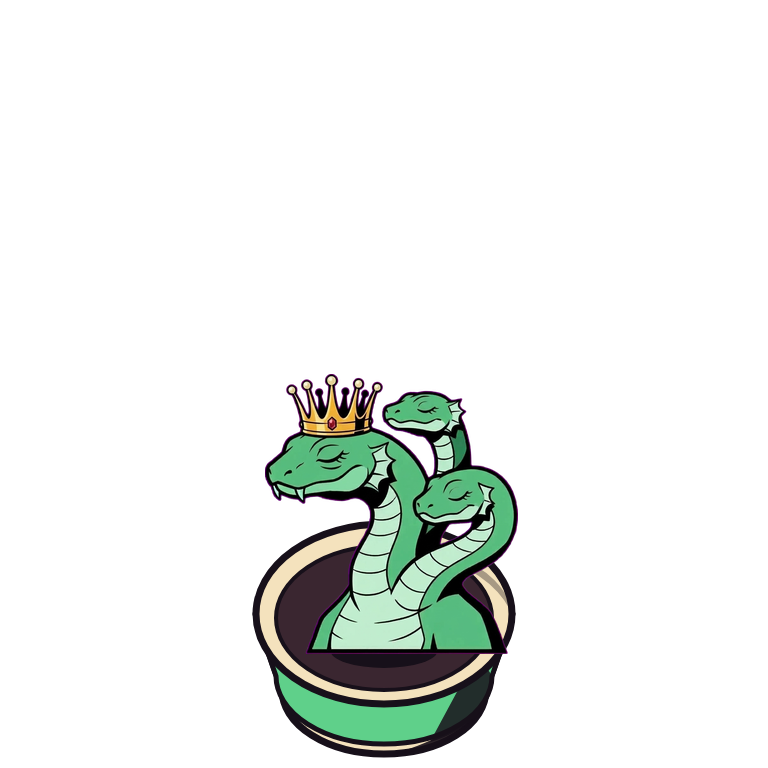
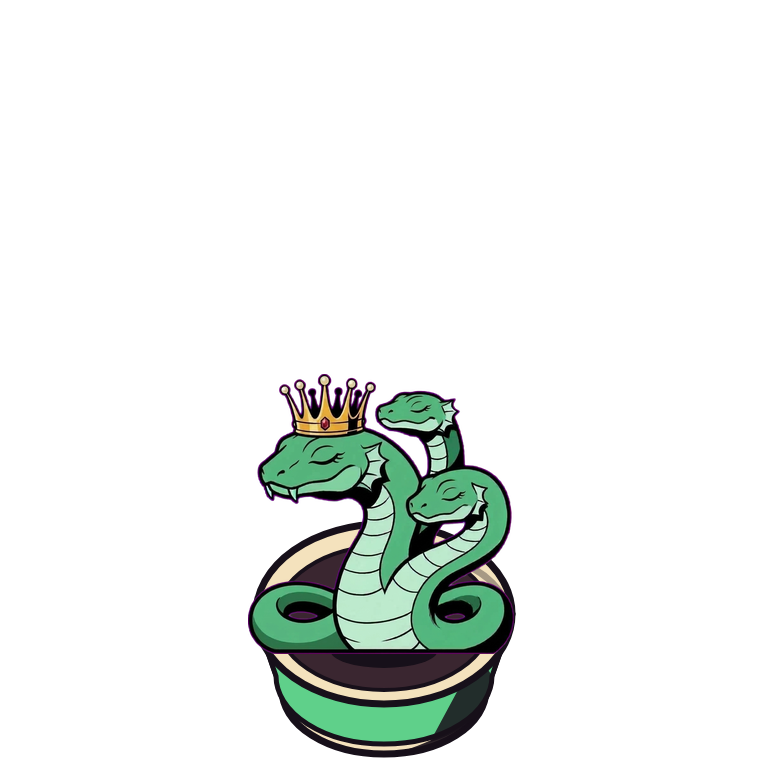
10.5.0: Gemini griffin, scorpion man (aqrabuamelu) and hydra v2; centre alignment option in composite.py
Claude-Session: https://claude.ai/code/session_01YcRvipXLdSARSXJBNmnAqn

Changed region(s): [[0.3125, 0.4688, 0.6875, 0.875]]

diff --git a/index.html b/index.html
@@ -83,7 +83,7 @@
 <div id="dbg"></div>
 <script>
 /* Diagnostics: any error shows at the bottom of the screen (tap to close) so it can be screenshotted on an iPhone */
-const APP_VERSION = 'v10.4.0';
+const APP_VERSION = 'v10.5.0';
 function reportError(e) {
   try { const el = document.getElementById('err'); el.textContent = '[' + APP_VERSION + '] ' + (e && e.message ? e.message : e) + (e && e.stack ? ' @ ' + String(e.stack).split('\n')[0] : ''); el.style.display = 'block'; } catch (x) {}
 }

diff --git a/sw.js b/sw.js
@@ -1,6 +1,6 @@
 // Sliding Cups service worker — makes the game playable offline.
 // Releases bump VERSION via node tools/release.js (matches package.json); old caches are deleted when the new worker activates.
-const VERSION = 'sc-10.4.0';
+const VERSION = 'sc-10.5.0';
 const SHELL = ['./', './index.html', './manifest.webmanifest', './icons/icon-192.png', './icons/icon-512.png', './icons/apple-touch-icon.png'];
 
 self.addEventListener('install', e => {

diff --git a/art-src/composite.py b/art-src/composite.py
@@ -17,6 +17,9 @@ H = [50, 70, 95, 120, 145, 170]              # in-game height per tier, world un
 ANCHOR_Y, BASE_Y, CX = 690, 650, 384         # cup anchor, plinth line the bust stands on, centre x
 KEY = np.array([248, 1, 244], float)         # Gemini magenta
 SUFFIXES = ['', '_happy', '_fast', '_blink']
+# Horizontal alignment: 'front' puts the chest front at CX-78 (animal busts facing left);
+# 'center' centres the chest cut line on the cup (humanoid shoulders, wide snake coils).
+ALIGN = {'aqrabuamelu': 'center', 'hydra': 'center'}
 
 def band_colour(kind):                       # creature colour for the cup band, read from CONFIG in index.html
     html = open(os.path.join(ROOT, 'index.html'), encoding='utf-8').read()
@@ -78,6 +81,8 @@ def placement(idle, tier):
     limit = (x0 + x1) / 2 - 0.12 * (x1 - x0)
     base = int(max(y for y in range(y0, y1) if lefts[y] < limit))
     front = int(lefts[max(y0, base - 20):base + 1].min())
+    if ALIGN.get(KIND) == 'center':                 # use the middle of the cut line instead; returned as a negative marker
+        row = np.nonzero(a[base])[0]; return (x0, y0, x1, y1), base, -((row[0] + row[-1]) / 2)
     return (x0, y0, x1, y1), base, front
 
 def main():
@@ -99,7 +104,9 @@ def main():
             k = erase_from(key_out(Image.open(p)), cut).crop(box)
             k = k.resize((max(1, round(bw * s)), max(1, round(bh * s))), Image.LANCZOS)
             # chest front edge sits at CX-78 like the vector sprites (wings/manes extend right); t1 (egg / baby) is centred
-            x = round(CX - k.width / 2) if t == 1 else round(CX - 78 - (left - box[0]) * s)
+            if t == 1: x = round(CX - k.width / 2)
+            elif left < 0: x = round(CX - (-left - box[0]) * s)       # centred on the cut line
+            else: x = round(CX - 78 - (left - box[0]) * s)
             y = round(BASE_Y + 4 - (base - box[1]) * s)
             canvas = cup.copy()
             canvas.alpha_composite(k, (x, y))

diff --git a/ASSET_SPEC.md b/ASSET_SPEC.md
@@ -4,7 +4,7 @@
 
 - **Dragon done (9.2.0)** and **unicorn done (9.3.0)**: generated as vectors by `art-src/<kind>/build.js` (Mignola style: thick silhouette line, hard black shadows, flat fills) and exported with `python3 art-src/render.py <kind> art/<kind>` — 24 PNGs per creature (6 tiers × idle / `_happy` / `_fast` / `_blink`).
 - **Sizes (9.3.0)**: per-tier creature scale (the part above the cup) lives in `art-src/sizes.json`, computed by `python3 art-src/sizes.py` so in-game heights rise H = [50, 70, 95, 120, 145, 170] world units; 170 for t6 is the cap. `layout()` reserves room above the table for a king at the far edge (`ART_TOP`).
-- **Gemini pipeline (10.1.0)**: the dragon is now drawn by Gemini (Nano Banana) from `art-src/GEMINI_PROMPTS.md`. Raw busts on magenta go in `art-src/incoming/<kind>/`; `python3 art-src/composite.py <kind>` keys out the magenta (with de-spill), finds the chest cut line, scales the bust to the same per-tier height budget, places the chest front at the cup centre − 78 px and composites it onto the shared vector cup, writing `art/<kind>/`. **Never upload raw images straight into `art/`** — that folder is live.
+- **Gemini pipeline (10.1.0)**: the dragon is now drawn by Gemini (Nano Banana) from `art-src/GEMINI_PROMPTS.md`. Raw busts on magenta go in `art-src/incoming/<kind>/`; `python3 art-src/composite.py <kind>` keys out the magenta (with de-spill), finds the chest cut line, scales the bust to the same per-tier height budget, places the chest front at the cup centre − 78 px and composites it onto the shared vector cup, writing `art/<kind>/`. **Never upload raw images straight into `art/`** — that folder is live. Folder and file names must use the game id (scorpion man = `aqrabuamelu`). `ALIGN` in composite.py centres humanoid / coiled busts (scorpion man, hydra) instead of aligning the chest front. Gemini ground lines and drop shadows are removed automatically.
 - **Adding a creature**: write `art-src/<id>/build.js` → add the id to `KINDS` in `sizes.py` → run `sizes.py` → `node art-src/<id>/build.js` → `python3 art-src/render.py <id> art/<id>`.
 
 This spec says how art must be delivered so the game can use it — whoever draws it (Claude via code, or hand-drawn). Reference template: `art/template/tier_template.png` (anchor and collision guides).

diff --git a/CLAUDE.md b/CLAUDE.md
@@ -25,7 +25,7 @@ Single-player flick-and-merge web game for David's family (iPad first, PWA). Sam
 Open `index.html` locally, or serve the folder (`python3 -m http.server`) for the service worker. Deploy = push to `main` (GitHub Pages: https://jellyfruit.github.io/game-sliding-cups/).
 
 ## Current stage
-Gameplay complete (Classic / Practice / Levels, items, VP unlocks). Art: dragon, unicorn, hydra, basilisk, phoenix drawn by Gemini (raw busts in `art-src/incoming/`); griffin and scorpion man still procedural. Old vector sources stay in `art-src/<kind>/build.js`. Now: tuning feel and rules from David's playtests.
+Gameplay complete (Classic / Practice / Levels, items, VP unlocks). Art: all 7 creatures drawn by Gemini (raw busts in `art-src/incoming/<kind id>/`; scorpion man's id is `aqrabuamelu`). Old vector sources stay in `art-src/<kind>/build.js`. Now: tuning feel and rules from David's playtests.
 
 ## Decisions not to revisit
 - Stay 2.5D (no 3D renderer); art is pre-made sprites.

diff --git a/CHANGELOG.md b/CHANGELOG.md
@@ -6,6 +6,9 @@ Versioning (`major.minor.patch`):
 - **major**: new mode, new core mechanic (e.g. items, special tables, obstacles), big physics change.
 - Doc/test-only changes don't release. Release with `node tools/release.js patch|minor|major -m "..."`.
 
+## 10.5.0 — 2026-11-23 (minor)
+- Griffin and scorpion man sprites (Gemini) and hydra v2 (coiled body); all 7 creatures now use Gemini art
+
 ## 10.4.0 — 2026-11-23 (minor)
 - Hydra sprites (Gemini): head count grows with tier (1 → 2 → 3)
 
